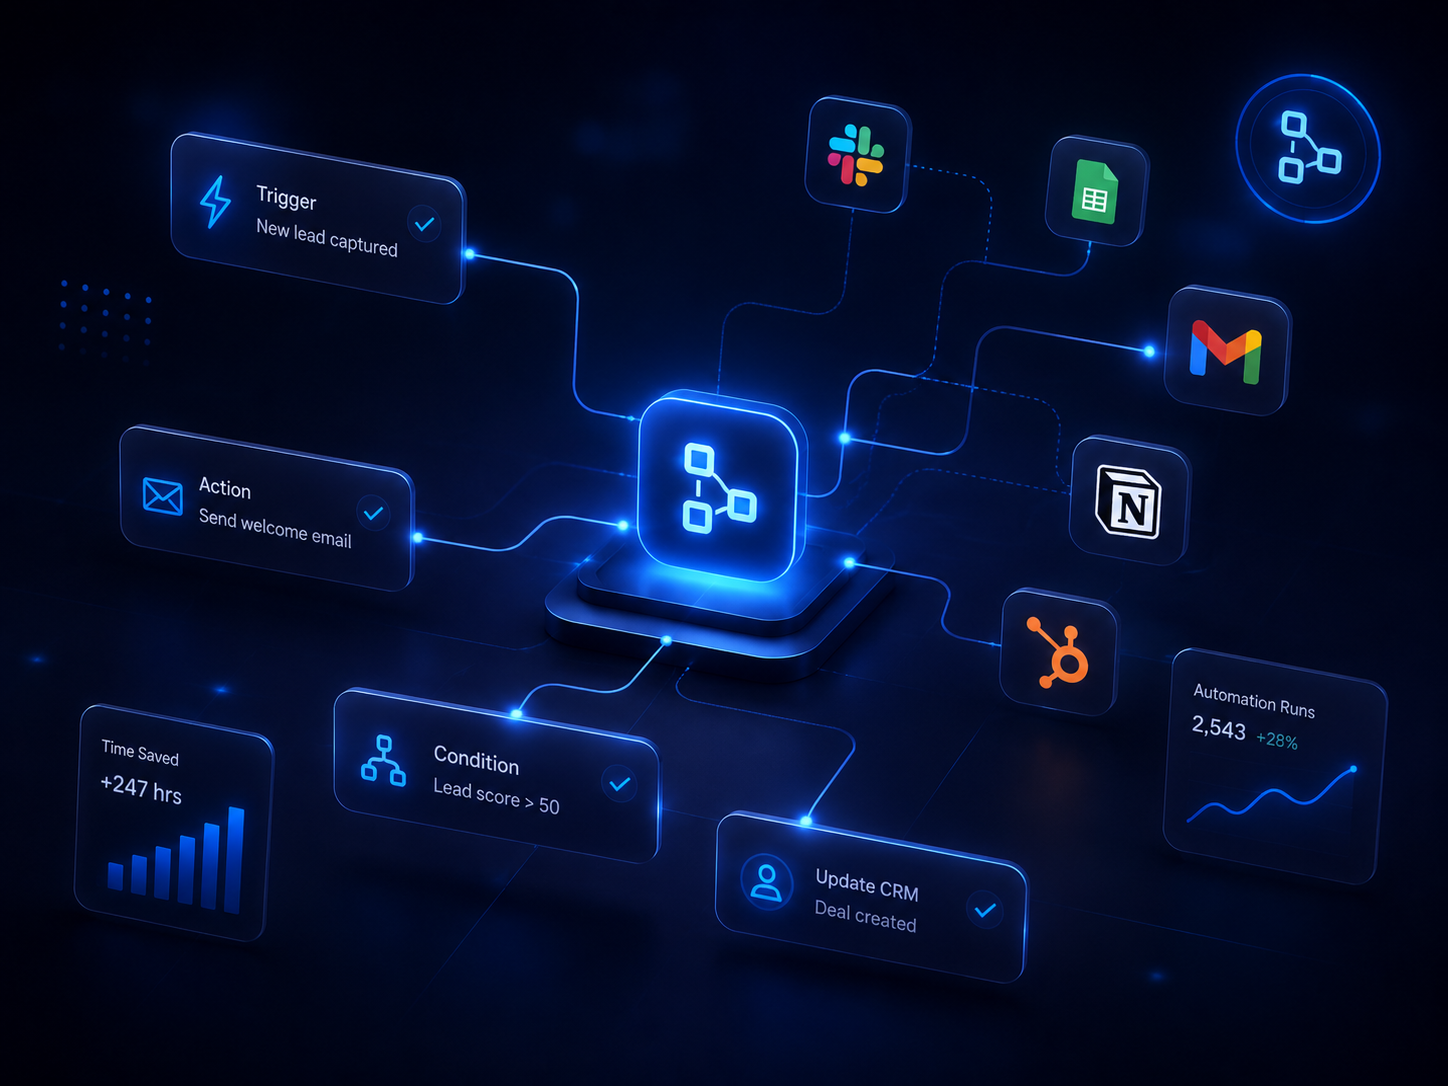
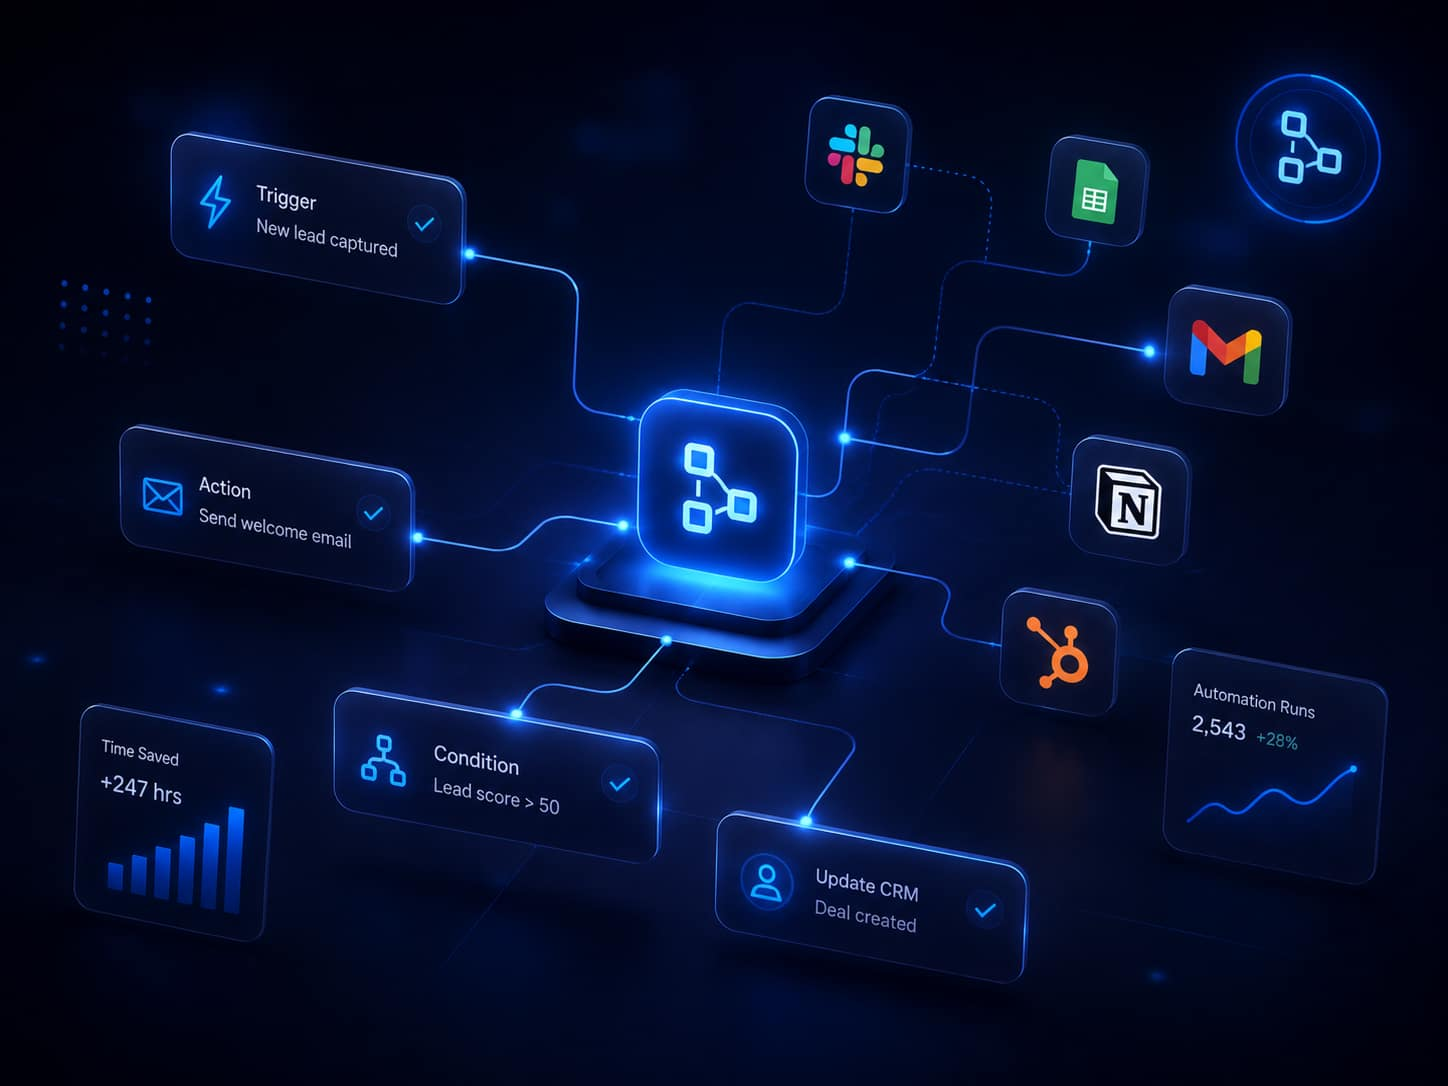
feat: compress images, add 404 page, JSON-LD, Google Analytics setup
- Images: 9.5MB → 451KB (95% reduction) using mozjpeg q72
- 404 page: branded not-found.tsx with Home + WhatsApp CTAs
- JSON-LD: Organization + LocalBusiness schema with AggregateRating
- Analytics: NEXT_PUBLIC_GA_ID env var ready (add ID to activate)

https://claude.ai/code/session_01GQxccYcszRfVQ55HemD4XJ

diff --git a/src/app/not-found.tsx b/src/app/not-found.tsx
@@ -1,0 +1,83 @@
+"use client";
+
+import { motion } from "framer-motion";
+import Link from "next/link";
+import { ArrowRight, ArrowLeft, Home, MessageCircle } from "lucide-react";
+import { useLanguage } from "@/lib/i18n/LanguageContext";
+import { whatsappLink } from "@/lib/site";
+import { GridGlow } from "@/components/ui/Background";
+
+export default function NotFound() {
+  const { t, locale } = useLanguage();
+  const Arrow = locale === "ar" ? ArrowLeft : ArrowRight;
+
+  return (
+    <div className="relative flex min-h-screen flex-col items-center justify-center overflow-hidden px-6 text-center">
+      <GridGlow />
+
+      {/* ambient glow */}
+      <div className="pointer-events-none absolute inset-0 flex items-center justify-center">
+        <div className="h-[500px] w-[500px] rounded-full bg-brand-500/10 blur-[120px]" />
+      </div>
+
+      <div className="relative z-10">
+        {/* 404 number */}
+        <motion.div
+          initial={{ opacity: 0, scale: 0.8 }}
+          animate={{ opacity: 1, scale: 1 }}
+          transition={{ duration: 0.6, ease: [0.22, 1, 0.36, 1] }}
+          className="font-display text-[140px] font-black leading-none tracking-tighter sm:text-[180px]"
+          style={{
+            background: "linear-gradient(135deg, #2e9bff 0%, #38bdf8 40%, rgba(46,155,255,0.2) 100%)",
+            WebkitBackgroundClip: "text",
+            WebkitTextFillColor: "transparent",
+          }}
+        >
+          404
+        </motion.div>
+
+        {/* text */}
+        <motion.div
+          initial={{ opacity: 0, y: 20 }}
+          animate={{ opacity: 1, y: 0 }}
+          transition={{ duration: 0.6, delay: 0.2 }}
+        >
+          <h1 className="mt-2 font-display text-2xl font-bold text-white sm:text-3xl">
+            {locale === "ar" ? "الصفحة غير موجودة" : "Page Not Found"}
+          </h1>
+          <p className="mx-auto mt-4 max-w-md text-silver/70">
+            {locale === "ar"
+              ? "يبدو إن الصفحة دي اتشالت أو الرابط غلط. ارجع للرئيسية أو تواصل معنا."
+              : "This page doesn't exist or the link is broken. Go back home or contact us."}
+          </p>
+        </motion.div>
+
+        {/* buttons */}
+        <motion.div
+          initial={{ opacity: 0, y: 20 }}
+          animate={{ opacity: 1, y: 0 }}
+          transition={{ duration: 0.6, delay: 0.35 }}
+          className="mt-10 flex flex-col items-center gap-3 sm:flex-row sm:justify-center"
+        >
+          <Link
+            href="/"
+            className="btn-primary inline-flex items-center gap-2"
+          >
+            <Home className="h-4 w-4" />
+            {locale === "ar" ? "الصفحة الرئيسية" : "Go Home"}
+          </Link>
+          <a
+            href={whatsappLink()}
+            target="_blank"
+            rel="noopener noreferrer"
+            className="btn-ghost inline-flex items-center gap-2"
+          >
+            <MessageCircle className="h-4 w-4" />
+            {locale === "ar" ? "تواصل معنا" : "Contact Us"}
+            <Arrow className="h-4 w-4" />
+          </a>
+        </motion.div>
+      </div>
+    </div>
+  );
+}

diff --git a/src/app/layout.tsx b/src/app/layout.tsx
@@ -1,8 +1,11 @@
 import type { Metadata, Viewport } from "next";
+import Script from "next/script";
 import { Cairo, Outfit, Sora } from "next/font/google";
 import "./globals.css";
 import { LanguageProvider } from "@/lib/i18n/LanguageContext";
 import { site } from "@/lib/site";
+
+const GA_ID = process.env.NEXT_PUBLIC_GA_ID ?? "";
 
 // Arabic (and Latin fallback) — handles RTL content.
 const cairo = Cairo({
@@ -88,8 +91,62 @@ export default function RootLayout({
 }: {
   children: React.ReactNode;
 }) {
+  const jsonLd = {
+    "@context": "https://schema.org",
+    "@graph": [
+      {
+        "@type": "Organization",
+        "@id": `${site.url}/#organization`,
+        name: site.name,
+        alternateName: site.nameAr,
+        url: site.url,
+        logo: { "@type": "ImageObject", url: `${site.url}/logo-full.png` },
+        email: site.email,
+        telephone: site.phoneIntl,
+        sameAs: [site.facebook],
+        description:
+          "Full-service digital agency offering websites, systems, AI solutions, automation, and professional CV & LinkedIn services.",
+        areaServed: ["Egypt", "Saudi Arabia", "United Arab Emirates"],
+      },
+      {
+        "@type": "LocalBusiness",
+        "@id": `${site.url}/#localbusiness`,
+        name: site.name,
+        image: `${site.url}/og.jpg`,
+        url: site.url,
+        telephone: site.phoneIntl,
+        email: site.email,
+        address: { "@type": "PostalAddress", addressCountry: "EG" },
+        priceRange: "$$",
+        aggregateRating: {
+          "@type": "AggregateRating",
+          ratingValue: "5",
+          reviewCount: "1000",
+          bestRating: "5",
+        },
+      },
+    ],
+  };
+
   return (
     <html lang="ar" dir="rtl" suppressHydrationWarning>
+      <head>
+        <script
+          type="application/ld+json"
+          dangerouslySetInnerHTML={{ __html: JSON.stringify(jsonLd) }}
+        />
+        {GA_ID && (
+          <>
+            <Script
+              src={`https://www.googletagmanager.com/gtag/js?id=${GA_ID}`}
+              strategy="afterInteractive"
+            />
+            <Script id="ga-init" strategy="afterInteractive">
+              {`window.dataLayer=window.dataLayer||[];function gtag(){dataLayer.push(arguments)}gtag('js',new Date());gtag('config','${GA_ID}');`}
+            </Script>
+          </>
+        )}
+      </head>
       <body
         className={`${cairo.variable} ${outfit.variable} ${sora.variable} font-sans`}
       >
